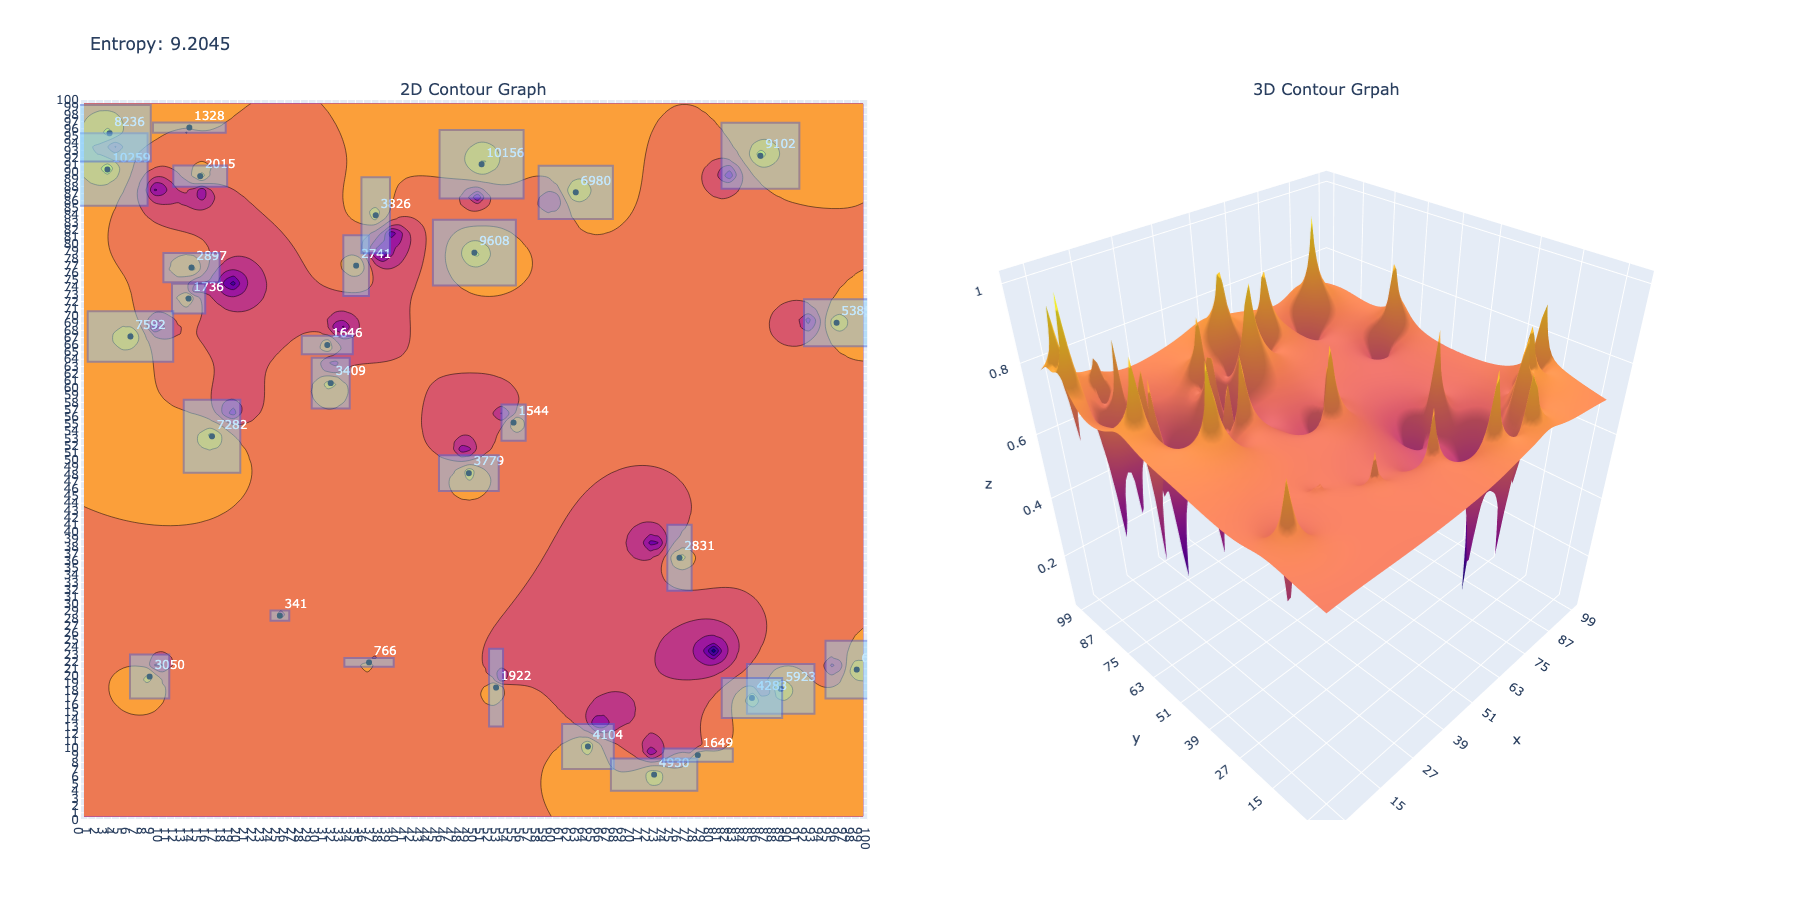
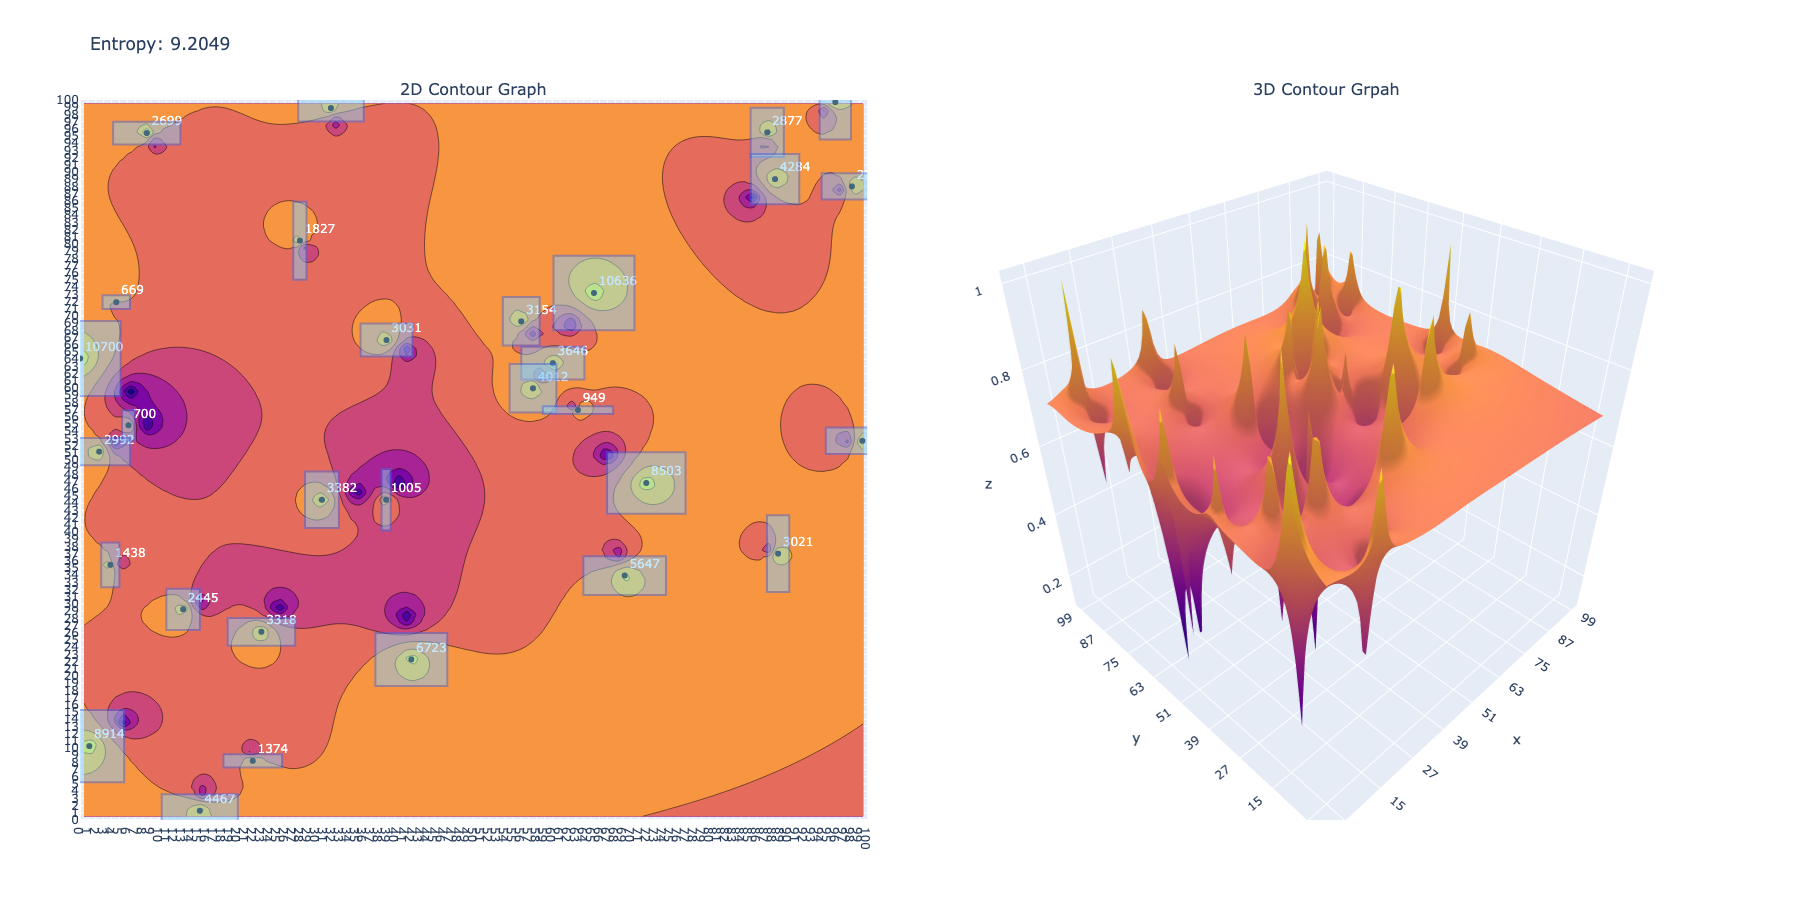
Run with greedy

Changed region(s): [[0.0311, 0.0933, 0.4978, 0.9333], [0.5289, 0.2489, 0.9022, 0.7778], [0.56, 0.56, 0.5911, 0.5911]]

diff --git a/main.py b/main.py
@@ -7,6 +7,8 @@ from plotly.subplots import make_subplots
 import plotly.graph_objects as go
 import plotly.io as pio
 
+from pathlib import Path
+
 
 FIELD_WIDTH = FIELD_HEIGHT = 100
 N_OBJECTS = 30
@@ -80,15 +82,8 @@ class Rectangle:
         self.width = width
         self.height = height
         
-        self._charges = [Charge(loc=Location(x=x, y=y), size=self.size)]
-    
-    @property
-    def charges(self) -> list[Charge]:
-        """Move the charge location."""
-        for c in self._charges:
-            c.loc = self.center
-        return self._charges
-    
+        self.charges = [Charge(loc=Location(x=x, y=y), size=self.size)]
+
     @property
     def size(self) -> float:
         """Get size."""
@@ -104,6 +99,12 @@ class Rectangle:
         """."""
         return Location(x=self.center.x + self.width / 2, y=self.center.y + self.height / 2)
 
+    def move_to_(self, loc: Location) -> None:
+        """Move this rectangle and its charges."""
+        self.center = loc
+        for c in self.charges:
+            c.loc = self.center
+
     def draw_rectangle(self, fig: go.Figure) -> go.Figure:
         """."""
         fig.add_shape(
@@ -116,9 +117,6 @@ class Rectangle:
             opacity=0.5,
         )
         return fig
-
-
-# =-=-=-=-=-=-=-=-=-=-=-=-=-=-=-=-=-=-=-=-=-=-=-=-=-=-=-=-=-=-=-=-=-=-=-=-=-=-=-=-=-=-=-=-=-=-=-=-=-=-=-=-=-=-=-=-=-=-=-=-=
 
 
 class ElectricField:
@@ -167,8 +165,6 @@ class ElectricField:
         )
 
 
-
-
 class SimulatedAnnealing:
     """Do SA."""
 
@@ -176,13 +172,51 @@ class SimulatedAnnealing:
         """Initialize."""
         self.electric_field = ElectricField()
 
-        self.dump_img()
+        self.save_dir = Path("save")
+        self.save_dir.mkdir(exist_ok=True, parents=True)
 
-    def dump_img(self) -> None:
+    def run(self) -> None:
+        """Optimize electric field."""
+        init_field, init_reward = self.evaluate_electric_field()
+        self.dump_img(init_field, init_reward, title="0")
+
+        idx = 1
+
+        cur_reward = init_reward
+        while True:
+            obj = random.choice(self.electric_field.objs)   
+            
+            ori_loc = obj.center
+            obj.move_to_(
+                Location(
+                    x=random.random() * FIELD_WIDTH - FIELD_WIDTH / 2,
+                    y=random.random() * FIELD_HEIGHT - FIELD_HEIGHT / 2,
+                )
+            )
+
+            _, tmp_reward = self.evaluate_electric_field()
+            if tmp_reward >= cur_reward:
+                obj.move_to_(ori_loc)
+            else:
+                cur_reward = tmp_reward
+                print(f"# of epochs: {idx}, potential energy: {cur_reward:.4f}")
+                self.dump_img(*self.evaluate_electric_field(), title=f"{idx}")
+                idx += 1
+
+            if idx == 100:
+                break
+        
+        self.make_gif()
+
+    def evaluate_electric_field(self) -> tuple[np.ndarray, float]:
+        """Return field and entropy."""
+        field = self.electric_field.potential_field
+        return field, entropy(field, axis=None)
+
+    def dump_img(self, field: np.ndarray, reward: float, title: str = "Default") -> None:
         """Dump img."""
         objs = self.electric_field.objs
         charges = self.electric_field.charges
-        field = self.electric_field.potential_field
 
         fig = make_subplots(
             rows=1, 
@@ -228,10 +262,8 @@ class SimulatedAnnealing:
         for obj in objs:
             fig = obj.draw_rectangle(fig)
 
-
         fig.update_yaxes(range=[0, N_ROWS], dtick=1, row=1, col=1)
         fig.update_xaxes(range=[0, N_COLS], dtick=1, row=1, col=1)
-
 
         # 3d
         z = np.array([row[::-1] for row in field[::-1]])
@@ -247,11 +279,24 @@ class SimulatedAnnealing:
         )
 
         fig.update_layout(
-            title_text=f"Entropy: {entropy(field, axis=None):.4f}", 
+            title_text=f"# of epochs: {title}, Entropy: {reward:.4f}", 
             width=1800, 
             height=900,
         )
-        pio.write_image(fig, "png.png")
+        pio.write_image(fig, self.save_dir / f"{title}.png")
 
+    def make_gif(self) -> None:
+        """."""
+        import imageio
+        from PIL import Image
 
-SimulatedAnnealing()
+        # List image files
+        image_files = list(self.save_dir.iterdir())
+        image_files = sorted(image_files, key=lambda x: int(x.stem))
+        images = [Image.open(x) for x in image_files]
+        
+        im = images[0]
+        im.save('result.gif', save_all=True, append_images=images[1:],loop=0xff, duration=300)
+        print("Done")
+
+SimulatedAnnealing().run()
